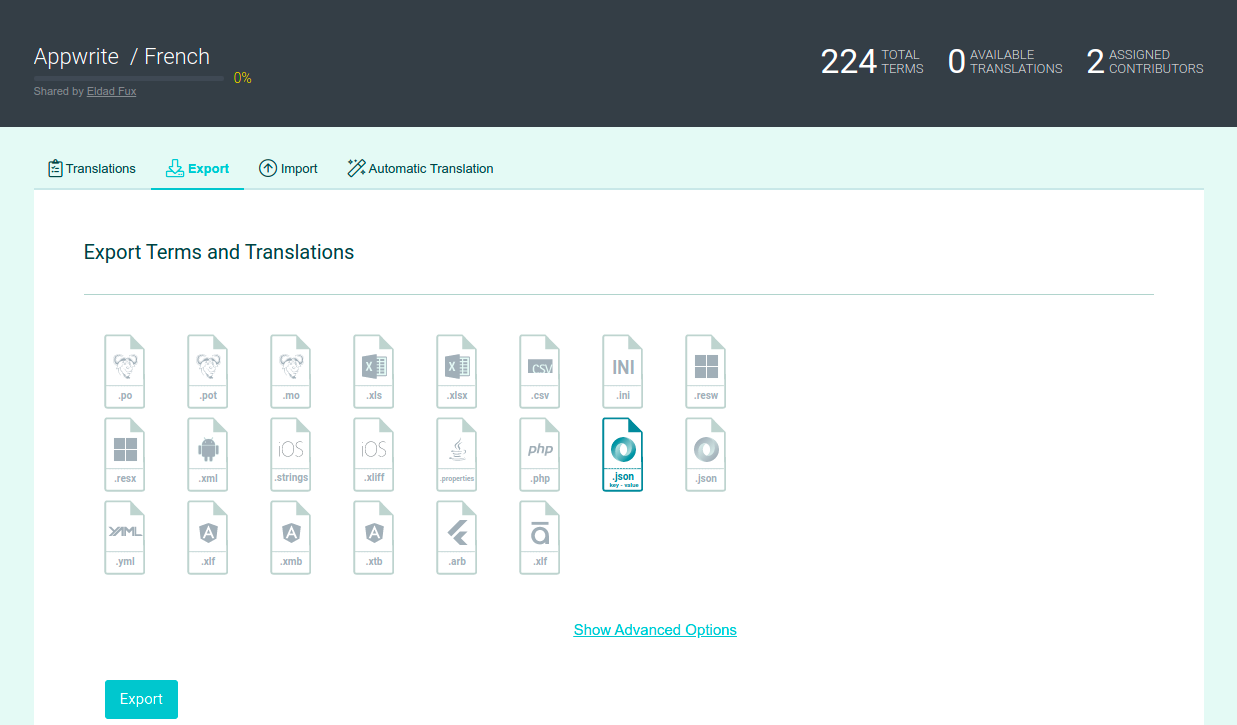
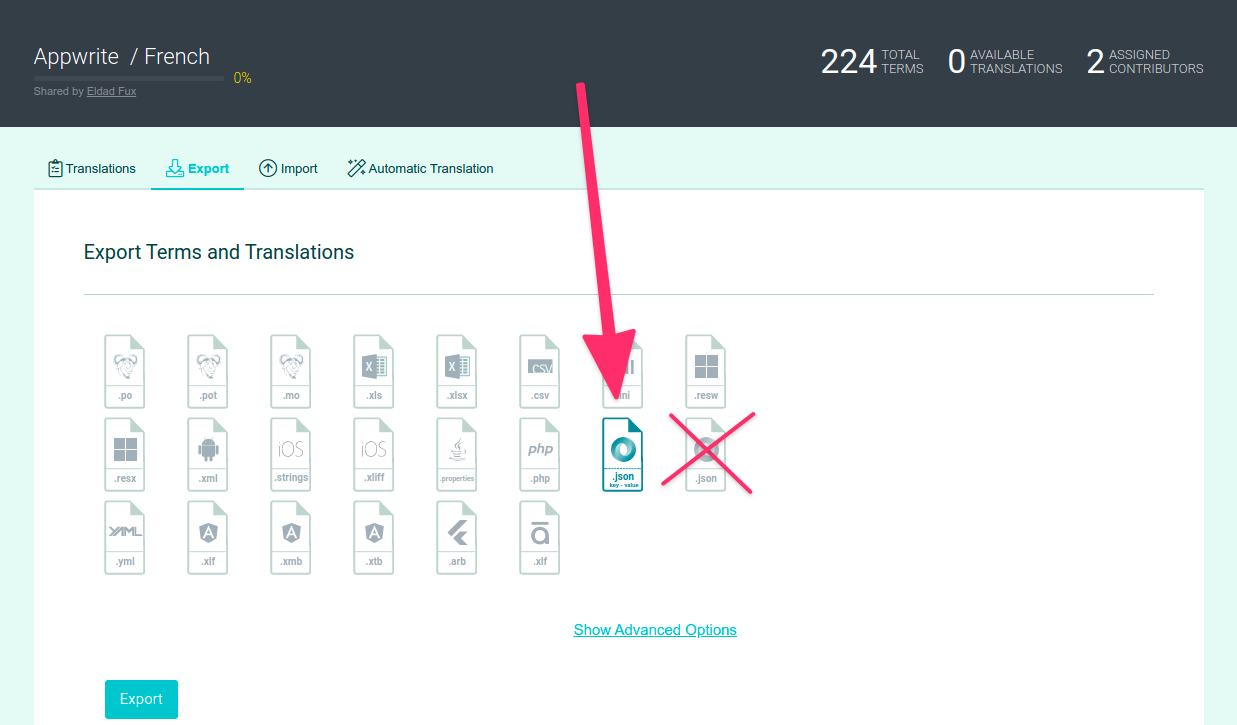
Update translations tutorial

Changed region(s): [[0.4608, 0.1214, 0.5222, 0.5462], [0.5222, 0.5766, 0.6144, 0.6676]]

diff --git a/docs/tutorials/add-translations.md b/docs/tutorials/add-translations.md
@@ -6,16 +6,44 @@ This document is part of the Appwrite contributors' guide. Before you continue r
 
 ### Agenda
 
-Appwrite's Locale API, Email Templates ( and soon our Dashboard ) has support for returning responses in your own locale based on the value of the `X-Appwrite-Locale` header. Behind the scenes, we use the value in this header to find the correct translation file for the locale. This guide will walk you through the process of adding a new Locale to Appwrite. 
+Appwrite's Locale API, Email Templates ( and soon our Dashboard ) has support for returning responses in your own locale based on the value of the `X-Appwrite-Locale` header. Behind the scenes, we use the value of this header to find the correct translation file for the locale. This guide will walk you through the process of adding a new Locale to Appwrite. 
 
-You can help in three distinct ways 
-* Adding support for new locales.
-* Helping us with existing incomplete translations. 
-* Reviewing existing translations for correctness.
+You can help in three distinct ways:
+* Adding support for new locales
+* Helping us with existing incomplete translations
+* Reviewing existing translations for correctness
 
-You can choose to contribute either directly on [**Github**](#contributing-with-github) or using [**POEditor**](#contributing-with-po-editor) if you prefer a GUI.
 
-### Contributing with Github
+## Prerequisites
+
+It's really easy to contribute to an open-sourced projects, but when using GitHub, there are a few steps we need to follow. This section will take you step-by-step through the process of preparing your own local version of Appwrite, where you can make any changes without affecting Appwrite right away.
+
+> If you are experienced with GitHub or have made a pull request before, you can skip to `Generate the translations`.
+
+###  Fork the Appwrite repository
+
+Before making any changes, you will need to fork Appwrite's repository to keep branches on the official repo clean. To do that, visit the [Appwrite Github repository](https://github.com/appwrite/appwrite) and click on the fork button.
+
+![Fork button](images/fork.png)
+
+This will redirect you from `github.com/appwrite/appwrite` to `github.com/YOUR_USERNAME/appwrite`, meaning all changes you do are only done inside your repository. Once you are there, click the highlighted `Code` button, copy the URL and clone the repository to your computer using `git clone` command:
+
+```bash
+$ git clone COPIED_URL
+```
+
+> To fork a repository, you will need a basic understanding of CLI and git-cli binaries installed. If you are a beginner, we recommend you to use `Github Desktop`. It is a really clean and simple visual Git client.
+
+Finally, you will need to create a `feat-XXX-YYY-translation` branch based on the `locale` branch and switch to it. The `XXX` should represent issue ID and `YYY` the language name.
+
+
+## Generate the translations
+
+You can choose to contribute either directly on [**GitHub**](#contributing-with-github) or using [**POEditor**](#contributing-with-po-editor) if you prefer a GUI.
+
+### Manually using GitHub
+
+> Skip this part and jump to PO Editor section if you want to use graphical interface.
 
 We maintain a [`locale branch`](https://github.com/appwrite/appwrite/tree/locale/) under the [appwrite/appwrite repo](https://github.com/appwrite/appwrite/) exclusively for translations related PRs. Here are a few files that you need to refer to help with your contribution.
 
@@ -50,7 +78,7 @@ We maintain a [`locale branch`](https://github.com/appwrite/appwrite/tree/locale
 
 3. **languages.php**
 
-    [languages.php](https://github.com/appwrite/appwrite/blob/locale/app/config/locale/languages.php) contains all the languages listed in **[ISO 639-1](https://en.wikipedia.org/wiki/List_of_ISO_639-1_codes)**. You can use this file to find your language code when making a contribution for your language. 
+    [languages.php](https://github.com/appwrite/appwrite/blob/locale/app/config/locale/languages.php) contains all the languages listed in **[ISO 639-1](https://en.wikipedia.org/wiki/List_of_ISO_639-1_codes)**. You can use this link to find your language code when making a contribution for your language. 
 
 Great, let's start. First, find the code of the language you want to add. For example, if you want to add support for **Spanish**, you can find the code for Spanish in [languages.php](https://github.com/appwrite/appwrite/blob/locale/app/config/locale/languages.php#L202).
 
@@ -67,16 +95,10 @@ Next, choose a reference language. If English is your reference language, copy t
     ... ...
 }
 ```
-Add your language code to [codes.php](https://github.com/appwrite/appwrite/blob/locale/app/config/locale/codes.php#L14) in the following format
-```php
-    ...
-    'es', // Spanish
-    ...
-```
 
-Finally, load your translation file in `init.php` by following a pattern similar to the [existing languages](https://github.com/appwrite/appwrite/blob/locale/app/init.php#L269).
+### Visually using PO Editor
 
-### Contributing with PO Editor
+> Skip this part if you followed the GitHub approach
 
 We use [PO Editor](https://poeditor.com/) to manage all our translations in a convenient way. The first step is to join the Appwrite Project on PO Editor using [our invite link](https://poeditor.com/join/project?hash=BNrWbRXyk6). 
 
@@ -98,9 +120,30 @@ You're now ready to start contributing. On the left, you'll find the string to b
 
 ![Reference Language](images/reference-language.png)
 
-Once you're happy with your translations, you can export them. Head over to the **Exports** tab and choose the **Key-Value JSON** option only. Download the file and you can then follow the steps similar to the Github approach. 
+Once you're happy with your translations, you can export them. Head over to the **Exports** tab and choose the **Key-Value JSON** option only. Download the file and you can then follow the steps similar to the Github approach.
 
 ![Exporting](images/export.png)
+
+> **Attention! 🛑** There are two JSON exports. Please make sure to export the one saying `Key-value JSON`. Refer to the screenshot if you are not sure which one is correct.
+
+After exporting a JSON file, we need to rename it to follow the **[ISO 639-1](https://en.wikipedia.org/wiki/List_of_ISO_639-1_codes)** standards. You can use this link to find your language code when making a contribution for your language. For example, Spanish translation should have file called `es.json`.
+
+## Add the translations to the project
+
+Add your language code to [codes.php](https://github.com/appwrite/appwrite/blob/locale/app/config/locale/codes.php#L14) in the following format.
+```php
+    ...
+    'es', // Spanish
+    ...
+```
+
+Finally, load your translation file in `init.php` by following a pattern similar to the [existing languages](https://github.com/appwrite/appwrite/blob/locale/app/init.php#L270).
+
+>  Please make sure to keep both `codes.php` and `init.php` in the alphabetical order A-Z.
+
+## Raise a pull request
+
+First of all, commit the changes with the message `Added Slovak translations` and push it. This will publish a new branch to your forked version of Appwrite. If you visit it at `github.com/YOUR_USERNAME_appwrite`, you will see a new alert saying you are ready to submit a pull request. Follow the steps GitHub provides, and at the end, you will have your pull request submitted.
 
 ### 🤕 Stuck ? 
 If you need any help with the contribution, feel free to head over to [our discord channel](https://appwrite.io/discord) and we'll be happy to help you out.
